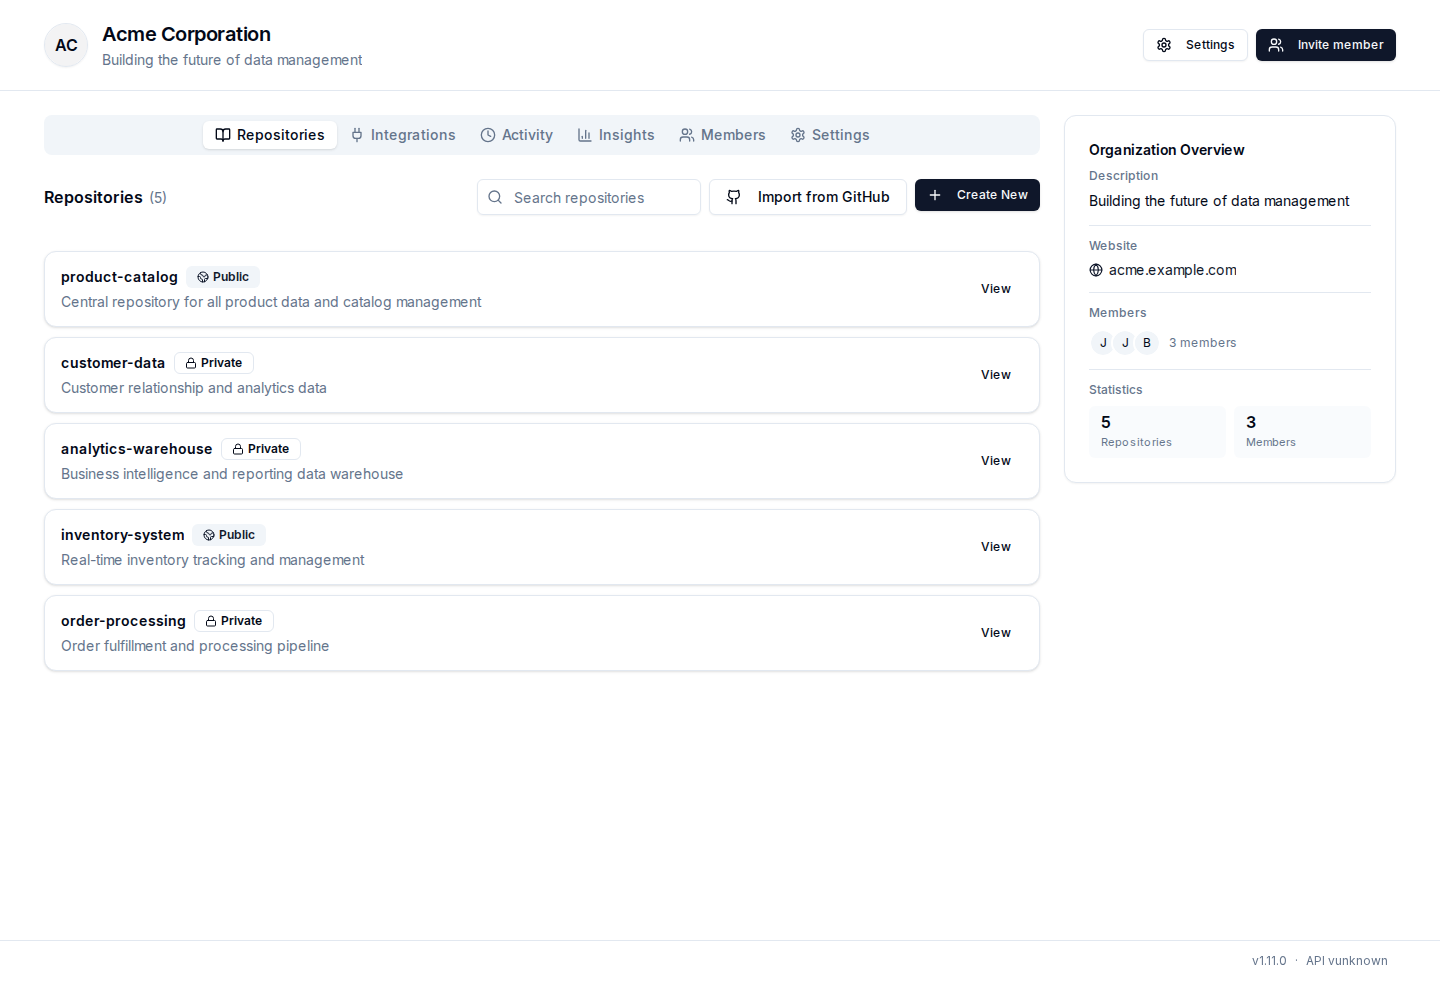
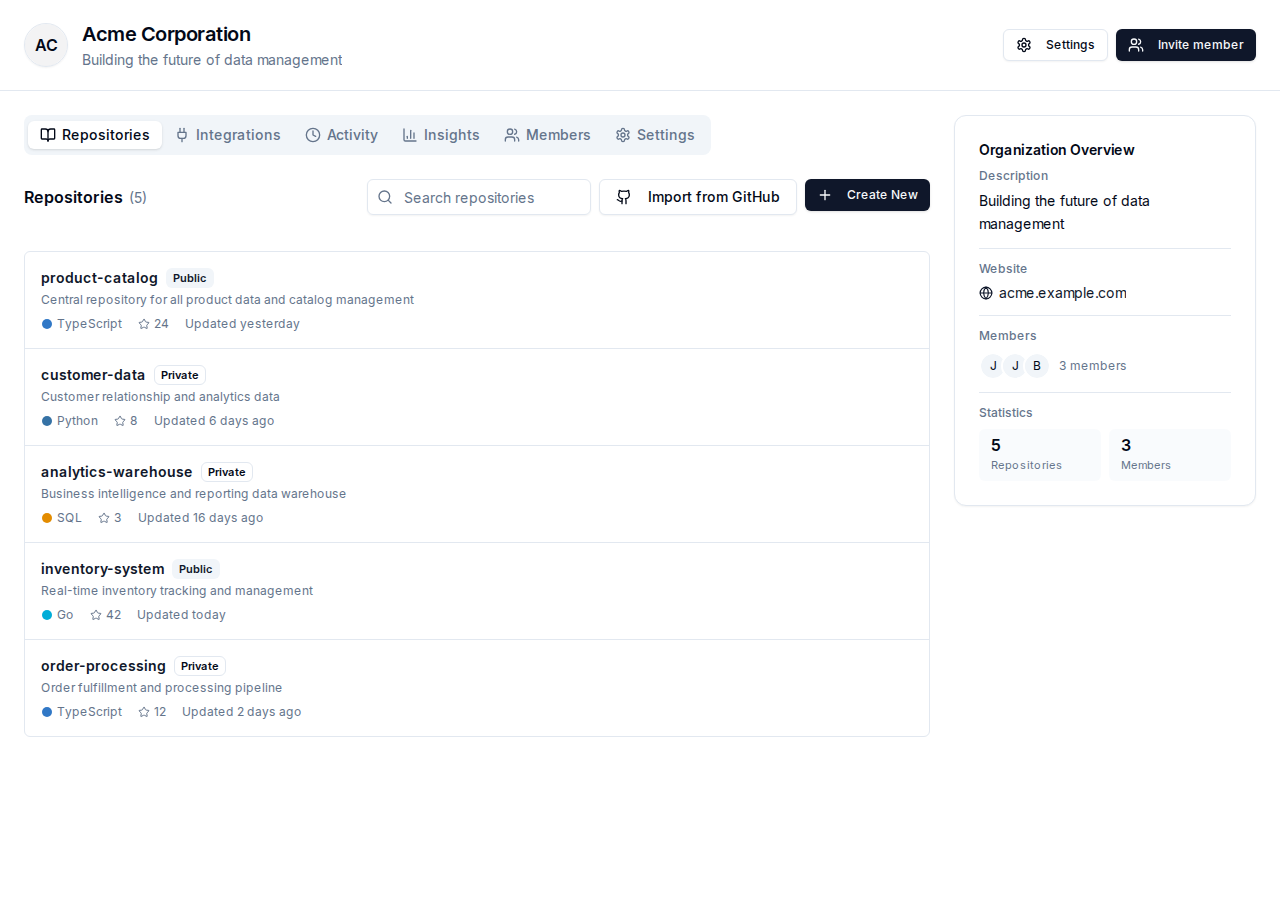
ui: replace repo cards with GitHub-style list layout
Switch repository list from card-based design to GitHub-style rows
showing name, description, language (with color dot), stars, and
relative update time. Update screenshot to reflect new layout.

diff --git a/apps/web/src/app/v1beta/[org]/_components/organization-page-ui.tsx b/apps/web/src/app/v1beta/[org]/_components/organization-page-ui.tsx
@@ -27,6 +27,7 @@ import { useTranslation } from '@/lib/i18n/useTranslation'
 import {
 	BarChart3,
 	BookOpen,
+	Circle,
 	Clock,
 	Database,
 	Globe,
@@ -35,6 +36,7 @@ import {
 	Plus,
 	Search,
 	Settings,
+	Star,
 	Users,
 	Webhook,
 } from 'lucide-react'
@@ -60,6 +62,9 @@ export interface OrganizationPageUiProps {
 			username: string
 			description?: string | null
 			isPublic: boolean
+			language?: string | null
+			stars?: number
+			updatedAt?: string | null
 		}>
 		users: Array<{
 			id: string
@@ -73,6 +78,33 @@ export interface OrganizationPageUiProps {
 		val: UpdateOrganizationInput,
 	) => Promise<{ id: string } | undefined>
 	apiKeyListSlot?: React.ReactNode
+}
+
+const languageColors: Record<string, string> = {
+	TypeScript: '#3178c6',
+	JavaScript: '#f1e05a',
+	Python: '#3572A5',
+	Go: '#00ADD8',
+	Rust: '#dea584',
+	Java: '#b07219',
+	Ruby: '#701516',
+	SQL: '#e38c00',
+	Shell: '#89e051',
+}
+
+function formatRelativeTime(dateStr: string): string {
+	const now = new Date()
+	const date = new Date(dateStr)
+	const diffMs = now.getTime() - date.getTime()
+	const diffDays = Math.floor(diffMs / (1000 * 60 * 60 * 24))
+	if (diffDays === 0) return 'today'
+	if (diffDays === 1) return 'yesterday'
+	if (diffDays < 30) return `${diffDays} days ago`
+	const diffMonths = Math.floor(diffDays / 30)
+	if (diffMonths < 12)
+		return `${diffMonths} month${diffMonths > 1 ? 's' : ''} ago`
+	const diffYears = Math.floor(diffDays / 365)
+	return `${diffYears} year${diffYears > 1 ? 's' : ''} ago`
 }
 
 export function OrganizationPageUi({
@@ -252,69 +284,87 @@ export function OrganizationPageUi({
 										</div>
 									</div>
 
-									<div className='border rounded-md divide-y'>
-										{filteredRepos.length ? (
-											filteredRepos.map(db => (
+									{filteredRepos.length ? (
+										<div className='border rounded-md divide-y'>
+											{filteredRepos.map(db => (
 												<div
 													key={db.id}
-													className='flex items-start justify-between gap-4 px-4 py-3.5 hover:bg-muted/30 transition-colors'
+													className='px-4 py-4 hover:bg-muted/30 transition-colors'
 												>
-													<div className='min-w-0 flex-1'>
-														<div className='flex items-center gap-2'>
-															<Database className='h-4 w-4 text-muted-foreground shrink-0' />
-															<Link
-																href={`/v1beta/${org}/${db.username}`}
-																className='text-sm font-semibold text-primary hover:underline truncate'
-															>
-																{db.username}
-															</Link>
-															<Badge
-																variant={
-																	db.isPublic ? 'secondary' : 'outline'
-																}
-																className='text-[11px] px-1.5 py-0 h-5 shrink-0'
-															>
-																{db.isPublic
-																	? t.v1beta.common.public
-																	: t.v1beta.common.private}
-															</Badge>
-														</div>
-														{db.description && (
-															<p className='text-xs text-muted-foreground mt-1 ml-6 line-clamp-1'>
-																{db.description}
-															</p>
+													<div className='flex items-center gap-2 mb-1'>
+														<Link
+															href={`/v1beta/${org}/${db.username}`}
+															className='text-sm font-semibold text-primary hover:underline'
+														>
+															{db.username}
+														</Link>
+														<Badge
+															variant={db.isPublic ? 'secondary' : 'outline'}
+															className='text-[11px] px-1.5 py-0 h-5 shrink-0'
+														>
+															{db.isPublic
+																? t.v1beta.common.public
+																: t.v1beta.common.private}
+														</Badge>
+													</div>
+													{db.description && (
+														<p className='text-xs text-muted-foreground mb-2 line-clamp-1 max-w-2xl'>
+															{db.description}
+														</p>
+													)}
+													<div className='flex items-center gap-4 text-xs text-muted-foreground'>
+														{db.language && (
+															<span className='flex items-center gap-1'>
+																<Circle
+																	className='h-3 w-3'
+																	fill={languageColors[db.language] ?? '#8b8b8b'}
+																	stroke='none'
+																/>
+																{db.language}
+															</span>
+														)}
+														{db.stars != null && db.stars > 0 && (
+															<span className='flex items-center gap-1'>
+																<Star className='h-3 w-3' />
+																{db.stars}
+															</span>
+														)}
+														{db.updatedAt && (
+															<span>
+																Updated {formatRelativeTime(db.updatedAt)}
+															</span>
 														)}
 													</div>
 												</div>
-											))
-										) : (
-											<Card>
-												<CardContent className='flex flex-col items-center justify-center py-16'>
-													<Database className='h-12 w-12 text-muted-foreground/40 mb-4' />
-													<h3 className='text-lg font-semibold mb-1'>
-														{t.v1beta.organization.noRepositoriesYet}
-													</h3>
-													<p className='text-sm text-muted-foreground mb-6 text-center max-w-sm'>
-														{t.v1beta.organization.noRepositoriesDescription}
-													</p>
-													<div className='flex flex-col sm:flex-row gap-2'>
-														{!isViewOnly && (
-															<GitHubImportDialog
-																org={org}
-																existingRepos={organization.repos}
-															/>
-														)}
-														<Button asChild>
-															<Link href={`/v1beta/${org}/databases/new`}>
-																<Plus className='h-4 w-4 mr-1.5' />
-																{t.v1beta.organization.createNewRepository}
-															</Link>
-														</Button>
-													</div>
-												</CardContent>
-											</Card>
-										)}
-									</div>
+											))}
+										</div>
+									) : (
+										<Card>
+											<CardContent className='flex flex-col items-center justify-center py-16'>
+												<Database className='h-12 w-12 text-muted-foreground/40 mb-4' />
+												<h3 className='text-lg font-semibold mb-1'>
+													{t.v1beta.organization.noRepositoriesYet}
+												</h3>
+												<p className='text-sm text-muted-foreground mb-6 text-center max-w-sm'>
+													{t.v1beta.organization.noRepositoriesDescription}
+												</p>
+												<div className='flex flex-col sm:flex-row gap-2'>
+													{!isViewOnly && (
+														<GitHubImportDialog
+															org={org}
+															existingRepos={organization.repos}
+														/>
+													)}
+													<Button asChild>
+														<Link href={`/v1beta/${org}/databases/new`}>
+															<Plus className='h-4 w-4 mr-1.5' />
+															{t.v1beta.organization.createNewRepository}
+														</Link>
+													</Button>
+												</div>
+											</CardContent>
+										</Card>
+									)}
 								</TabsContent>
 
 								{!isViewOnly && (

diff --git a/apps/web/src/app/v1beta/[org]/_components/organization-page-ui.stories.tsx b/apps/web/src/app/v1beta/[org]/_components/organization-page-ui.stories.tsx
@@ -42,18 +42,27 @@ const mockOrganization = {
 			description:
 				'Central repository for all product data and catalog management',
 			isPublic: true,
+			language: 'TypeScript',
+			stars: 24,
+			updatedAt: '2026-03-15T10:00:00Z',
 		},
 		{
 			id: 'repo-2',
 			username: 'customer-data',
 			description: 'Customer relationship and analytics data',
 			isPublic: false,
+			language: 'Python',
+			stars: 8,
+			updatedAt: '2026-03-10T14:30:00Z',
 		},
 		{
 			id: 'repo-3',
 			username: 'analytics-warehouse',
 			description: 'Business intelligence and reporting data warehouse',
 			isPublic: false,
+			language: 'SQL',
+			stars: 3,
+			updatedAt: '2026-02-28T09:00:00Z',
 		},
 	],
 	users: [
@@ -236,24 +245,36 @@ export const ManyRepositories: Story = {
 					username: 'inventory-system',
 					description: 'Real-time inventory tracking and management',
 					isPublic: true,
+					language: 'Go',
+					stars: 42,
+					updatedAt: '2026-03-16T08:00:00Z',
 				},
 				{
 					id: 'repo-5',
 					username: 'order-processing',
 					description: 'Order fulfillment and processing pipeline',
 					isPublic: false,
+					language: 'TypeScript',
+					stars: 12,
+					updatedAt: '2026-03-14T16:00:00Z',
 				},
 				{
 					id: 'repo-6',
 					username: 'supplier-data',
 					description: 'Supplier relationship and procurement data',
 					isPublic: false,
+					language: 'Python',
+					stars: 5,
+					updatedAt: '2026-03-01T12:00:00Z',
 				},
 				{
 					id: 'repo-7',
 					username: 'financial-reports',
 					description: 'Financial reporting and compliance data',
 					isPublic: false,
+					language: 'SQL',
+					stars: 1,
+					updatedAt: '2026-02-15T10:00:00Z',
 				},
 			],
 		},
